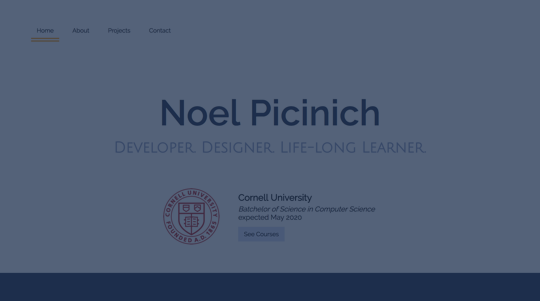
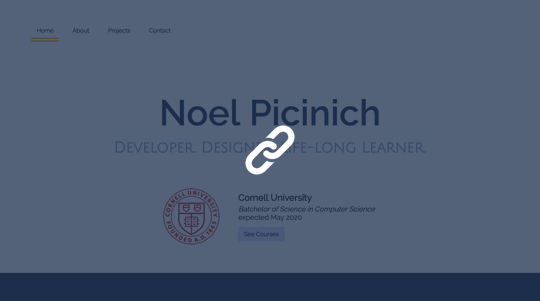
new scroll feature and fixed slideshow

Changed region(s): [[0.4444, 0.4186, 0.563, 0.598]]

diff --git a/index.html b/index.html
@@ -9,6 +9,7 @@
   <script src="scripts/header.js" type="text/javascript"></script>
   <script src="scripts/slideshow.js" type="text/javascript"></script>
   <script src="scripts/projects.js" type="text/javascript"></script>
+  <script src="scripts/scroll.js" type="text/javascript"></script>
 </head>
 
 <body>
@@ -339,13 +340,15 @@
     <h1 class="section_title">Projects</h1>
     <div class="row">
       <div class="column">
-        <div id="nmb_site" class="project">
-          <img class="website_project" src="images/nmb_site.jpg" alt="NMB Website Image">
-          <div class="project_description">
-            <p class="project_title">NMB Media website</p>
-            <p class="date">2017</p>
+        <a href="http://www.nmbdigital.com/" target="_blank">
+          <div id="nmb_site" class="project">
+            <img class="website_project" src="images/nmb_site.jpg" alt="NMB Website Image">
+            <div class="project_description">
+              <p class="project_title">NMB Media website</p>
+              <p class="date">2017</p>
+            </div>
           </div>
-        </div>
+        </a>
         <div class="project">
           <img class="website_project" src="images/khouse_site.jpg" alt="K-House Website Image">
           <div class="project_description">
@@ -362,12 +365,14 @@
         </div>
       </div>
       <div class="column">
-        <div class="project">
-          <img class="website_project" src="images/my_site.png" alt="noelpicinich.com Image">
-          <div class="project_description">
-            <p class="project_title">Portfolio website v.1.</p>
-            <p class="date">2017</p>
-          </div>
+        <a href="old_site/index.html" target="_blank">
+          <div id="my_site" class="project">
+            <img class="website_project" src="images/my_site.png" alt="noelpicinich.com Image">
+            <div class="project_description">
+              <p class="project_title">Portfolio website v.1.</p>
+              <p class="date">2017</p>
+            </div>
+          </a>
         </div>
         <div class="project">
           <img class="website_project" src="images/ithaca_site.jpg" alt="Ithaca Apple Harvest Festival Website Image">

diff --git a/scripts/scroll.js b/scripts/scroll.js
@@ -1,0 +1,39 @@
+$(document).ready(function() {
+  // Select all links with hashes
+$('a[href*="#"]')
+  // Remove links that don't actually link to anything
+  .not('[href="#"]')
+  .not('[href="#0"]')
+  .click(function(event) {
+    // On-page links
+    if (
+      location.pathname.replace(/^\//, '') == this.pathname.replace(/^\//, '')
+      &&
+      location.hostname == this.hostname
+    ) {
+      // Figure out element to scroll to
+      var target = $(this.hash);
+      target = target.length ? target : $('[name=' + this.hash.slice(1) + ']');
+      // Does a scroll target exist?
+      if (target.length) {
+        // Only prevent default if animation is actually gonna happen
+        event.preventDefault();
+        $('html, body').animate({
+          scrollTop: target.offset().top
+        }, 1000, function() {
+          // Callback after animation
+          // Must change focus!
+          var $target = $(target);
+          $target.focus();
+          if ($target.is(":focus")) { // Checking if the target was focused
+            return false;
+          } else {
+            $target.attr('tabindex','-1'); // Adding tabindex for elements not focusable
+            $target.focus(); // Set focus again
+          };
+        });
+      }
+    }
+  });
+
+});

diff --git a/old_site/index.html b/old_site/index.html
@@ -10,10 +10,10 @@
 <body id="top">
   <nav>
     <ul class="nav">
-      <li class="nav-item"><a href="index.html">Home</a></li>
-      <li class="nav-item"><a href="about.html">About</a></li>
-      <li class="nav-item"><a href="projects.html">Projects</a></li>
-      <li class="nav-item"><a href="contact.html">Contact</a></li>
+      <li class="nav-item"><a class="nav-link button active" href="index.html">Home</a></li>
+      <li class="nav-item"><a class="nav-link button" href="about.html">About</a></li>
+      <li class="nav-item"><a class="nav-link button" href="projects.html">Projects</a></li>
+      <li class="nav-item"><a class="nav-link button" href="contact.html">Contact</a></li>
     </ul>
   </nav>
 

diff --git a/scripts/projects.js b/scripts/projects.js
@@ -28,4 +28,12 @@ $(document).ready(function() {
   $('#nmb_site').mouseout(function() {
     $('#nmb_site img').attr("src", 'images/nmb_site.jpg');
   });
+
+  //My Site v.1. Project
+  $('#my_site').mouseover(function() {
+    $('#my_site img').attr("src", 'images/my_site_hover.png');
+  });
+  $('#my_site').mouseout(function() {
+    $('#my_site img').attr("src", 'images/my_site.png');
+  });
 });

diff --git a/styles/all.css b/styles/all.css
@@ -141,6 +141,7 @@ nav {
   height: 50px;
   width: 50px;
   align-self: center;
+  cursor: pointer;
 }
 
 #current_img {
